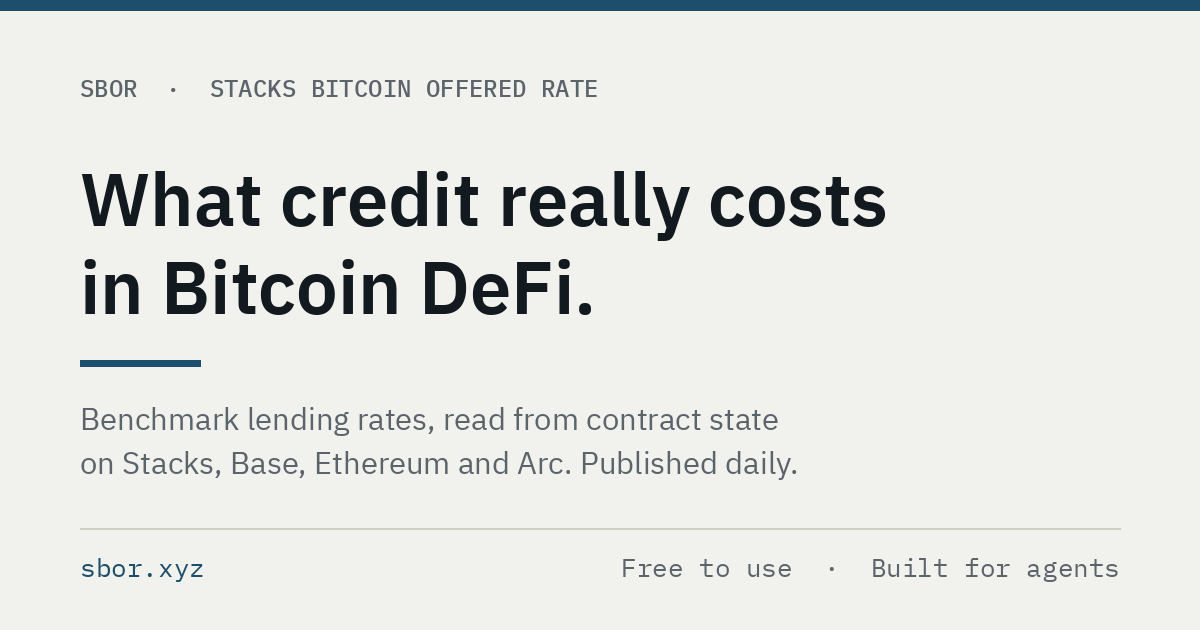
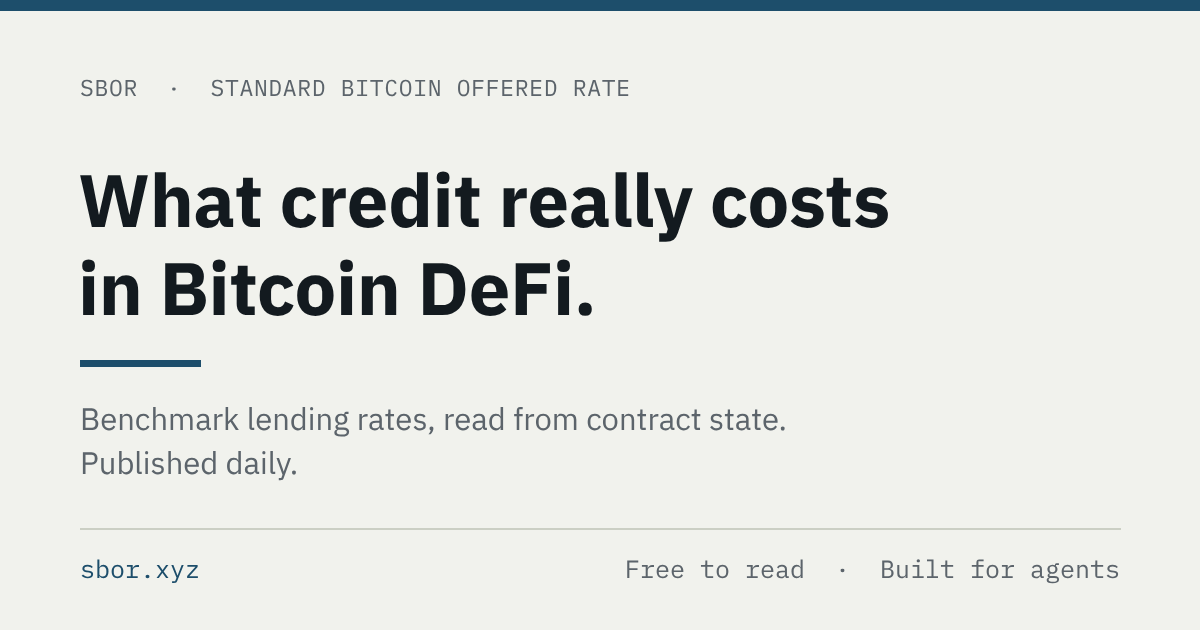
Name: Standard Bitcoin Offered Rate
Page headers, home page title, link preview, descriptions, intro (EN and PT),
sign-up page, README, llms.txt and the API description from the next fixing.
New og.png. Archive and published fixings unchanged.

Claude-Session: https://claude.ai/code/session_01FJxfkGTEUezhYwBM3Ep779

diff --git a/index.html b/index.html
@@ -3,22 +3,22 @@
 <head>
 <meta charset="utf-8">
 <meta name="viewport" content="width=device-width, initial-scale=1">
-<title>SBOR · Stacks Bitcoin Offered Rate</title>
-<meta name="description" content="Benchmark lending rates for Bitcoin DeFi, read from contract state on Stacks, Base, Ethereum and Arc. Published daily, free to use, built for agents.">
+<title>SBOR · Standard Bitcoin Offered Rate</title>
+<meta name="description" content="What it costs to borrow dollars against bitcoin, read from lending contracts and published daily. Free to read, built for agents.">
 <meta property="og:type" content="website">
 <meta property="og:site_name" content="SBOR">
 <meta property="og:url" content="https://sbor.xyz/">
-<meta property="og:title" content="SBOR · What credit really costs in Bitcoin DeFi">
-<meta property="og:description" content="Benchmark lending rates for Bitcoin DeFi, read from contract state on Stacks, Base, Ethereum and Arc. Published daily, free to use, built for agents.">
-<meta property="og:image" content="https://sbor.xyz/og.png?v=2">
+<meta property="og:title" content="SBOR · Standard Bitcoin Offered Rate">
+<meta property="og:description" content="What it costs to borrow dollars against bitcoin, read from lending contracts and published daily. Free to read, built for agents.">
+<meta property="og:image" content="https://sbor.xyz/og.png?v=3">
 <meta property="og:image:width" content="1200">
 <meta property="og:image:height" content="630">
-<meta property="og:image:alt" content="SBOR: what credit really costs in Bitcoin DeFi. Benchmark lending rates read from contract state on Stacks, Base, Ethereum and Arc.">
+<meta property="og:image:alt" content="SBOR · Standard Bitcoin Offered Rate. What credit really costs in Bitcoin DeFi. Benchmark lending rates, read from contract state. Published daily.">
 <meta name="twitter:card" content="summary_large_image">
 <meta name="twitter:site" content="@SBORindex">
-<meta name="twitter:title" content="SBOR · What credit really costs in Bitcoin DeFi">
-<meta name="twitter:description" content="Benchmark lending rates for Bitcoin DeFi, read from contract state on Stacks, Base, Ethereum and Arc. Published daily, free to use, built for agents.">
-<meta name="twitter:image" content="https://sbor.xyz/og.png?v=2">
+<meta name="twitter:title" content="SBOR · Standard Bitcoin Offered Rate">
+<meta name="twitter:description" content="What it costs to borrow dollars against bitcoin, read from lending contracts and published daily. Free to read, built for agents.">
+<meta name="twitter:image" content="https://sbor.xyz/og.png?v=3">
 <link rel="preconnect" href="https://fonts.googleapis.com">
 <link rel="preconnect" href="https://fonts.gstatic.com" crossorigin>
 <link href="https://fonts.googleapis.com/css2?family=IBM+Plex+Mono:wght@400;500;600&family=IBM+Plex+Sans:wght@400;450;500;600&display=swap" rel="stylesheet">
@@ -641,9 +641,9 @@ const GITHUB = "https://github.com/sborxyz/sbor";
 /* ---------------- copy ---------------- */
 const I18N = {
 en:{
-  fullname:"Stacks Bitcoin Offered Rate",
+  fullname:"Standard Bitcoin Offered Rate",
   introH:"What credit really costs in Bitcoin DeFi.",
-  introP:"Every lending venue in Bitcoin DeFi quotes its own rate. SBOR publishes the market rate, starting with Stacks: one rate per currency, read straight from the contracts, every day.",
+  introP:"Every lending venue in Bitcoin DeFi quotes its own rate. SBOR publishes the market rate, read straight from the lending contracts on Stacks, Ethereum, Base, Arc, Arbitrum and BNB Chain, every day.",
   notice:'<strong>Methodology 1.13.0 takes effect on 14 October 2026.</strong> The bitcoin rate widens from USDC to every dollar stablecoin lent against plain bitcoin, across Ethereum, Base, Arc, Arbitrum, BNB Chain and Stacks, with a rate per stablecoin beside it. The Stacks indices do not change. <a href="https://github.com/sborxyz/sbor/blob/main/METHODOLOGY-1.13.0.md" target="_blank" rel="noopener">Read the notice</a>.',
   introUse:"Use it as a yardstick. Borrow above SBOR and you are paying more than the market. Supply below it and you are earning less. Every loan here is overcollateralized, and the collateral is whatever you supplied rather than one particular asset, so a dollar borrowed on Stacks is secured by crypto collateral rather than by bitcoin specifically.",
   stamp:d=>`Rate as of <span class="num">${d}</span> · read from Zest contract state · updated daily`,
@@ -737,7 +737,7 @@ en:{
   devEndpoints:"Endpoints",
   devExample:"Example",
   contractsH:"Contracts and sources read",
-  indep:'SBOR is an independent benchmark of lending rates for Bitcoin DeFi, starting with <a href="https://www.stacks.co" target="_blank" rel="noopener">Stacks</a>: no token, and no stake in or payment from any venue it measures.',
+  indep:'SBOR is an independent benchmark of lending rates for Bitcoin DeFi: no token, and no stake in or payment from any venue it measures.',
   footMethod:v=>`Methodology ${v}`,
   footSource:"Source on GitHub",
   footLicense:"Data license",
@@ -785,9 +785,9 @@ en:{
   disclaimer:"The published fixings are free to use, including commercially, with no permission required and no license to negotiate, under CC BY 4.0. Attribution is the only condition: name SBOR and link to sbor.xyz where practical. Agents are explicitly welcome. SBOR is provided as is, without warranty. It is a statistic, not investment advice, and nobody earns SBOR. It is a tool for making better decisions, not a recommendation to make any. Rates are read from contract state on Stacks mainnet."
 },
 pt:{
-  fullname:"Taxa de Referência de Bitcoin da Stacks",
+  fullname:"Standard Bitcoin Offered Rate",
   introH:"O custo real do crédito no Bitcoin DeFi.",
-  introP:"Cada plataforma de crédito no Bitcoin DeFi mostra só a própria taxa. O SBOR publica a taxa de mercado, começando pela Stacks: uma taxa por moeda, lida direto dos contratos, todo dia.",
+  introP:"Cada plataforma de crédito no Bitcoin DeFi mostra só a própria taxa. O SBOR publica a taxa de mercado, lida direto dos contratos de crédito na Stacks, na Ethereum, na Base, na Arc, na Arbitrum e na BNB Chain, todo dia.",
   notice:'<strong>A metodologia 1.13.0 entra em vigor em 14 de outubro de 2026.</strong> A taxa com garantia de bitcoin passa de USDC para toda stablecoin em dólar emprestada contra bitcoin puro, na Ethereum, na Base, na Arc, na Arbitrum, na BNB Chain e na Stacks, com uma taxa por stablecoin ao lado. Os índices da Stacks não mudam. <a href="https://github.com/sborxyz/sbor/blob/main/METHODOLOGY-1.13.0.md" target="_blank" rel="noopener">Leia o aviso</a>.',
   introUse:"Use como régua. Tomar emprestado acima do SBOR significa pagar mais que o mercado. Depositar abaixo dele significa ganhar menos. Todo empréstimo aqui é sobrecolateralizado, e a garantia é o que você depositou, não um ativo específico, então um dólar tomado emprestado na Stacks é garantido por colateral cripto e não por bitcoin especificamente.",
   stamp:d=>`Taxa em <span class="num">${d}</span> · lida do estado dos contratos da Zest · atualizada diariamente`,
@@ -881,7 +881,7 @@ pt:{
   devEndpoints:"Endpoints",
   devExample:"Exemplo",
   contractsH:"Contratos e fontes lidos",
-  indep:'O SBOR é uma referência independente de taxas de crédito para o Bitcoin DeFi, começando pela <a href="https://www.stacks.co" target="_blank" rel="noopener">Stacks</a>: sem token, sem participação em nenhuma plataforma que mede e sem receber pagamento delas.',
+  indep:'O SBOR é uma referência independente de taxas de crédito para o Bitcoin DeFi: sem token, sem participação em nenhuma plataforma que mede e sem receber pagamento delas.',
   footMethod:v=>`Metodologia ${v}`,
   footSource:"Código no GitHub",
   footLicense:"Licença dos dados",

diff --git a/success.html b/success.html
@@ -65,7 +65,7 @@ footer{border-top:1px solid var(--rule);padding:22px 0 40px;color:var(--ink-soft
 <script>
 const C = {
   en:{
-    fullname:"Stacks Bitcoin Offered Rate",
+    fullname:"Standard Bitcoin Offered Rate",
     h1:"You are subscribed.",
     p1:"The weekly rate report arrives Monday mornings: where each currency fixed, how the spread moved over the week, and any change to constituents.",
     p2:"One email a week. Nothing else, and no forwarding of your address.",
@@ -73,7 +73,7 @@ const C = {
     foot:"SBOR is published as a public good. Free to reference, no permission required."
   },
   pt:{
-    fullname:"Taxa de Referência de Bitcoin da Stacks",
+    fullname:"Standard Bitcoin Offered Rate",
     h1:"Inscrição confirmada.",
     p1:"O relatório semanal chega nas manhãs de segunda: onde cada moeda fechou, como o spread se moveu na semana e qualquer mudança nos componentes.",
     p2:"Um e-mail por semana. Nada além disso, e seu endereço não é repassado a ninguém.",

diff --git a/solana.html b/solana.html
@@ -40,7 +40,7 @@ footer{margin-top:40px;padding-top:16px;border-top:1px solid var(--rule);color:v
 <div class="bar"></div>
 <main>
 <button class="theme" id="themeBtn" type="button" aria-label="Switch theme" title="Switch theme">&#9680;</button>
-<a class="mark" href="/">SBOR · STACKS BITCOIN OFFERED RATE</a>
+<a class="mark" href="/">SBOR · STANDARD BITCOIN OFFERED RATE</a>
 <h1>SBOR on Solana</h1>
 <p>Every morning, after the fixing, SBOR posts its benchmark lending rates on Solana mainnet, to SBOR's own program and as a signed record from SBOR's publisher, so any Solana program, application, vault or agent can read them from the chain. The table below is read live from Solana by your browser, not from SBOR's servers. The same rates are also posted on <a href="/arc.html">Arc</a>, <a href="/base.html">Base</a>, <a href="/hyperliquid.html">Hyperliquid</a> and <a href="/stacks.html">Stacks</a>.</p>
 <p class="status" id="status">Reading from Solana mainnet…</p>

diff --git a/stacks.html b/stacks.html
@@ -40,7 +40,7 @@ footer{margin-top:40px;padding-top:16px;border-top:1px solid var(--rule);color:v
 <div class="bar"></div>
 <main>
 <button class="theme" id="themeBtn" type="button" aria-label="Switch theme" title="Switch theme">&#9680;</button>
-<a class="mark" href="/">SBOR · STACKS BITCOIN OFFERED RATE</a>
+<a class="mark" href="/">SBOR · STANDARD BITCOIN OFFERED RATE</a>
 <h1>SBOR on Stacks</h1>
 <p>Every morning, after the fixing, SBOR posts its benchmark lending rates to a contract on Stacks mainnet, so any Stacks contract, application or agent can read them on-chain. The table below is read live from Stacks by your browser, not from SBOR's servers. The same rates are also posted on <a href="/arc.html">Arc</a>, <a href="/base.html">Base</a>, <a href="/hyperliquid.html">Hyperliquid</a> and <a href="/solana.html">Solana</a>.</p>
 <p class="status" id="status">Reading from Stacks mainnet…</p>

diff --git a/base.html b/base.html
@@ -40,7 +40,7 @@ footer{margin-top:40px;padding-top:16px;border-top:1px solid var(--rule);color:v
 <div class="bar"></div>
 <main>
 <button class="theme" id="themeBtn" type="button" aria-label="Switch theme" title="Switch theme">&#9680;</button>
-<a class="mark" href="/">SBOR · STACKS BITCOIN OFFERED RATE</a>
+<a class="mark" href="/">SBOR · STANDARD BITCOIN OFFERED RATE</a>
 <h1>SBOR on Base</h1>
 <p>Every morning, after the fixing, SBOR posts its benchmark lending rates to a contract on Base mainnet, so any Base application, vault or agent can read them on-chain. The table below is read live from Base by your browser, not from SBOR's servers. The same rates are also posted on <a href="/arc.html">Arc</a>, <a href="/hyperliquid.html">Hyperliquid</a>, <a href="/solana.html">Solana</a> and <a href="/stacks.html">Stacks</a>.</p>
 <p class="status" id="status">Reading from Base mainnet…</p>

diff --git a/arc.html b/arc.html
@@ -40,7 +40,7 @@ footer{margin-top:40px;padding-top:16px;border-top:1px solid var(--rule);color:v
 <div class="bar"></div>
 <main>
 <button class="theme" id="themeBtn" type="button" aria-label="Switch theme" title="Switch theme">&#9680;</button>
-<a class="mark" href="/">SBOR · STACKS BITCOIN OFFERED RATE</a>
+<a class="mark" href="/">SBOR · STANDARD BITCOIN OFFERED RATE</a>
 <h1>SBOR on Arc</h1>
 <p>Every morning, after the fixing, SBOR posts its benchmark lending rates to a contract on Arc mainnet, so any Arc application, vault or agent can read them on-chain. The table below is read live from Arc by your browser, not from SBOR's servers. The same rates are also posted on <a href="/base.html">Base</a>, <a href="/hyperliquid.html">Hyperliquid</a>, <a href="/solana.html">Solana</a> and <a href="/stacks.html">Stacks</a>.</p>
 <p class="status" id="status">Reading from Arc mainnet…</p>

diff --git a/privacy.html b/privacy.html
@@ -32,7 +32,7 @@ footer{margin-top:48px;padding-top:16px;border-top:1px solid var(--rule);color:v
 <div class="bar"></div>
 <main>
 <button class="theme" id="themeBtn" type="button" aria-label="Switch theme" title="Switch theme">&#9680;</button>
-<a class="mark" href="/">SBOR · STACKS BITCOIN OFFERED RATE</a>
+<a class="mark" href="/">SBOR · STANDARD BITCOIN OFFERED RATE</a>
 <h1>Privacy policy</h1>
 <p class="date">Last updated 2 October 2026</p>
 <p>SBOR publishes benchmark lending rates read from public lending contracts. It has no accounts and no logins, and it is built to know as little about you as possible. This page says exactly what it does collect.</p>

diff --git a/terms.html b/terms.html
@@ -32,7 +32,7 @@ footer{margin-top:48px;padding-top:16px;border-top:1px solid var(--rule);color:v
 <div class="bar"></div>
 <main>
 <button class="theme" id="themeBtn" type="button" aria-label="Switch theme" title="Switch theme">&#9680;</button>
-<a class="mark" href="/">SBOR · STACKS BITCOIN OFFERED RATE</a>
+<a class="mark" href="/">SBOR · STANDARD BITCOIN OFFERED RATE</a>
 <h1>Terms of service</h1>
 <p class="date">Last updated 26 September 2026</p>
 <p>These terms cover sbor.xyz, the SBOR data files and API, and the SBOR MCP server. Using any of them means accepting these terms.</p>

diff --git a/README.md b/README.md
@@ -4,7 +4,7 @@
 market rate, read from contract state on Ethereum, Base, Arc, Arbitrum, BNB Chain and Stacks.**
 
 A single venue's number cannot tell anyone, human or agent, whether the rate
-they are offered is fair. SBOR, the Stacks Bitcoin Offered Rate, is a benchmark
+they are offered is fair. SBOR, the Standard Bitcoin Offered Rate, is a benchmark
 for exactly that. On Stacks, where it started, it publishes one borrow
 and one supply rate per currency: the SBOR indices. Beyond Stacks, it publishes
 what it costs to borrow dollars against bitcoin: from the fixing of 14 October
@@ -267,9 +267,8 @@ api/v1/                 published data
 ## Independence
 
 **Independent:** no token, and no stake in or payment from any venue SBOR
-measures, and holds no stake in Stacks, the Stacks Foundation, or any
-protocol in the index, and publishes whatever the market does, including numbers
-unfavorable to the ecosystem. It does not trade on its own rate. Grant funding,
+measures. It publishes whatever the market does, including numbers unfavorable
+to any venue or chain, and it does not trade on its own rate. Grant funding,
 when received, is disclosed.
 
 Published fixings are never rewritten. Corrections to published figures are

diff --git a/LICENSE-DATA.md b/LICENSE-DATA.md
@@ -92,8 +92,7 @@ number can be checked rather than trusted.
 
 ---
 
-**SBOR takes no payment from any venue it measures**, holds no stake in Stacks,
-the Stacks Foundation or any protocol in its indices, and does not trade on its
-own rate.
+**SBOR takes no payment from any venue it measures**, holds no stake in any
+protocol in its indices, and does not trade on its own rate.
 
 Questions: contact@sbor.xyz · [sbor.xyz](https://sbor.xyz)
